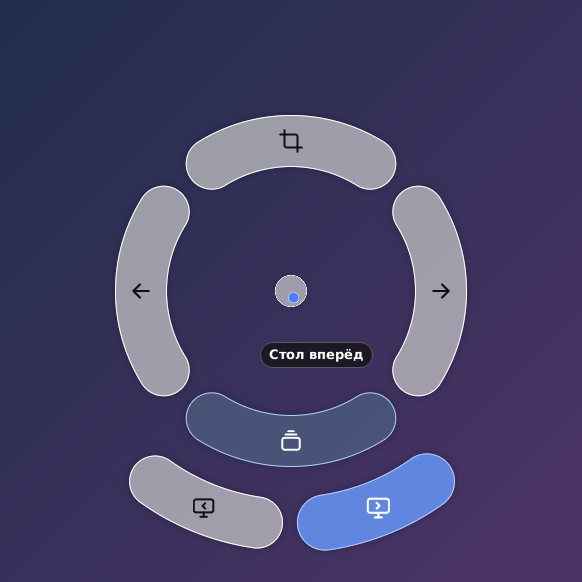
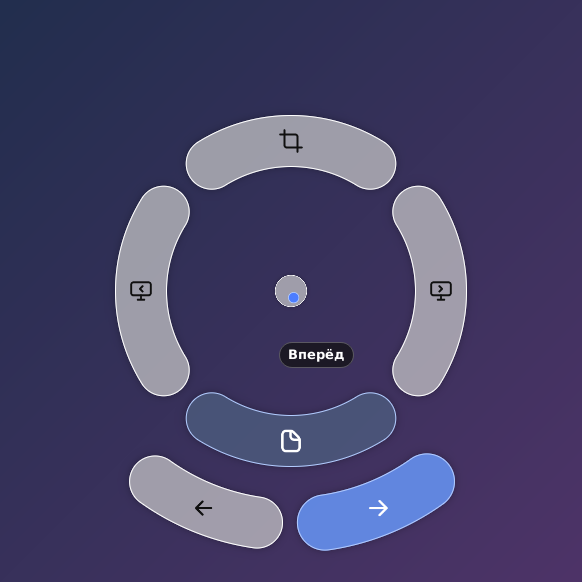
Навигация: столы по бокам, страницы назад/вперёд веером снизу
Рабочий стол назад/вперёд теперь основные кнопки слева/справа (приглушаются на крайних
столах), а «назад»/«вперёд» — веер из двух кнопок «Страницы» снизу. Обновлены тест,
руководство, README, CHANGELOG и скриншот.

Claude-Session: https://claude.ai/code/session_01JB2RXnwqzdEzrfD8mj54oG

diff --git a/src/model/menu_yaml.rs b/src/model/menu_yaml.rs
@@ -655,12 +655,14 @@ mod tests {
         let m = &set.main;
         let top: Vec<_> = m.top().iter().map(|&i| m.node(i).label.clone()).collect();
         // сверху, справа, снизу, слева
-        assert_eq!(top, ["Скриншот", "Вперёд", "Рабочие столы", "Назад"]);
+        assert_eq!(top, ["Скриншот", "Стол вперёд", "Страницы", "Стол назад"]);
         let shot = m.top()[0];
         assert!(m.node(shot).dwell && m.children(shot).len() == 1, "скриншот окна — по задержке");
-        let desks = m.children(m.top()[2]);
-        assert_eq!(desks.len(), 2, "рабочие столы — веер из двух");
-        assert!(desks.iter().all(|&d| m.node(d).enabled_if.is_some()));
+        // столы — основные кнопки слева и справа, недоступные на крайних столах
+        assert!([m.top()[1], m.top()[3]].iter().all(|&d| m.node(d).enabled_if.is_some() && m.children(d).is_empty()));
+        // страницы — веер из двух снизу: назад и вперёд
+        let pages: Vec<_> = m.children(m.top()[2]).iter().map(|&p| m.node(p).label.clone()).collect();
+        assert_eq!(pages, ["Назад", "Вперёд"]);
         assert!(m.uses(Flag::DesktopPrev) && m.uses(Flag::DesktopNext));
     }
 

diff --git a/examples/docshots.rs b/examples/docshots.rs
@@ -134,7 +134,7 @@ fn main() {
     shot(&dir, "menu-main-light.png", &main_menu, Theme::Light, &none, find(&main_menu, "Заметка"), font.as_ref());
     shot(&dir, "menu-media.png", &main_menu, Theme::Dark, &playing, find(&main_menu, "Пауза"), font.as_ref());
     shot(&dir, "menu-copy.png", &main_menu, Theme::Dark, &none, find(&main_menu, "Вырезать"), font.as_ref());
-    shot(&dir, "menu-nav.png", &nav, Theme::Dark, &desktops, find(&nav, "Стол вперёд"), font.as_ref());
+    shot(&dir, "menu-nav.png", &nav, Theme::Dark, &desktops, find(&nav, "Вперёд"), font.as_ref());
     shot(&dir, "menu-custom.png", &custom, Theme::Dark, &playing, find(&custom, "Громче"), font.as_ref());
 
     // окно настроек

diff --git a/docs/GUIDE.md b/docs/GUIDE.md
@@ -83,12 +83,16 @@
 
 | Куда вести | Действие |
 |---|---|
-| Влево | «Назад» в окне под указателем (как кнопка «назад» мыши) |
-| Вправо | «Вперёд» в окне под указателем |
+| Влево | Рабочий стол назад (`Ctrl+Win+←`) |
+| Вправо | Рабочий стол вперёд (`Ctrl+Win+→`) |
 | Вверх | Скриншот области (`Win+Shift+S`); с задержкой — веер «Скриншот окна» |
-| Вниз | Веер «Рабочий стол назад / вперёд»; на первом и последнем столе соответствующая кнопка приглушена |
+| Вниз | Веер из двух кнопок «Страницы»: «Назад» и «Вперёд» (как боковые кнопки мыши в браузере и Проводнике) |
 
+На первом рабочем столе кнопка «Стол назад» приглушена и не выбирается, на последнем — «Стол вперёд».
 «Назад», «вперёд» и скриншот окна действуют на окно **под указателем**, а не на активное.
+
+> Меню профиля создаётся из шаблона при первом запуске. Если у вас уже есть `menu-2.yaml` со старой раскладкой
+> (назад/вперёд по бокам, столы снизу), он не меняется: удалите файл — и при следующем запуске появится новая раскладка.
 
 Таких меню (профилей) можно завести до трёх сверх основного, у каждого — своя кнопка мыши и/или сочетание клавиш и свой файл меню.
 

diff --git a/README.md b/README.md
@@ -122,9 +122,10 @@ apps:                   # своё меню, пока активно окно э
 мыши и/или сочетание клавиш и свой файл меню: у основного `menu.yaml`, у профилей `menu-2.yaml`, `menu-3.yaml`,
 `menu-4.yaml` (кнопка «Открыть …» там же; формат один и тот же). Одну кнопку или сочетание нельзя отдать двум меню —
 настройки не сохранятся, пока это не поправить. По умолчанию есть профиль 2 «Навигация» на боковую «вперёд» — жесты
-в четыре стороны: влево/вправо — назад/вперёд в окне под указателем (`back` / `forward`), вверх — скриншот области
-(`Win+Shift+S`), с задержкой — скриншот окна под указателем (`screenshot-window`), вниз — веер «рабочий стол
-назад/вперёд» (на первом/последнем столе соответствующая кнопка приглушена: `enabled_if`).
+в четыре стороны: влево/вправо — рабочий стол назад/вперёд (на первом/последнем столе соответствующая кнопка приглушена:
+`enabled_if`), вверх — скриншот области (`Win+Shift+S`), с задержкой — скриншот окна под указателем
+(`screenshot-window`), вниз — веер из двух кнопок «Страницы»: назад/вперёд в окне под указателем (`back` / `forward`).
+Шаблон профиля записывается при первом запуске; уже созданный `menu-2.yaml` не меняется.
 
 ## Темы
 

diff --git a/CHANGELOG.md b/CHANGELOG.md
@@ -8,6 +8,7 @@
 ### Добавлено
 - «Не мешать в играх»: пока на переднем плане полноэкранная программа (эксклюзивный режим Direct3D или окно без рамки на весь монитор), боковые кнопки и сочетание остаются ей, меню не вызывается. Хуки ввода на это время снимаются совсем, чтобы не добавлять задержку в игре; возвращаются, как только игра перестала быть активной. Браузеры и видеоплееры исключены (в полноэкранном видео меню работает).
 - В `config.txt`: `ignore_fullscreen` (1/0, по умолчанию 1) и `ignore_apps` (имена exe через запятую — программы, где меню не вызывается никогда). Галка «Не мешать в играх (полный экран)» в меню значка.
+- Меню «Навигация»: рабочий стол назад/вперёд теперь на основных кнопках слева/справа, а «назад»/«вперёд» (страницы) — веером из двух кнопок снизу. Шаблон записывается при первом запуске; существующий `menu-2.yaml` не меняется (удалите файл, чтобы получить новую раскладку).
 - Руководство пользователя `docs/GUIDE.md` со скриншотами (`docs/img`); скриншоты рисуются тем же кодом, что и меню: `cargo run --release --example docshots -- docs/img`.
 
 ## [0.10.1] — 2026-10-19
